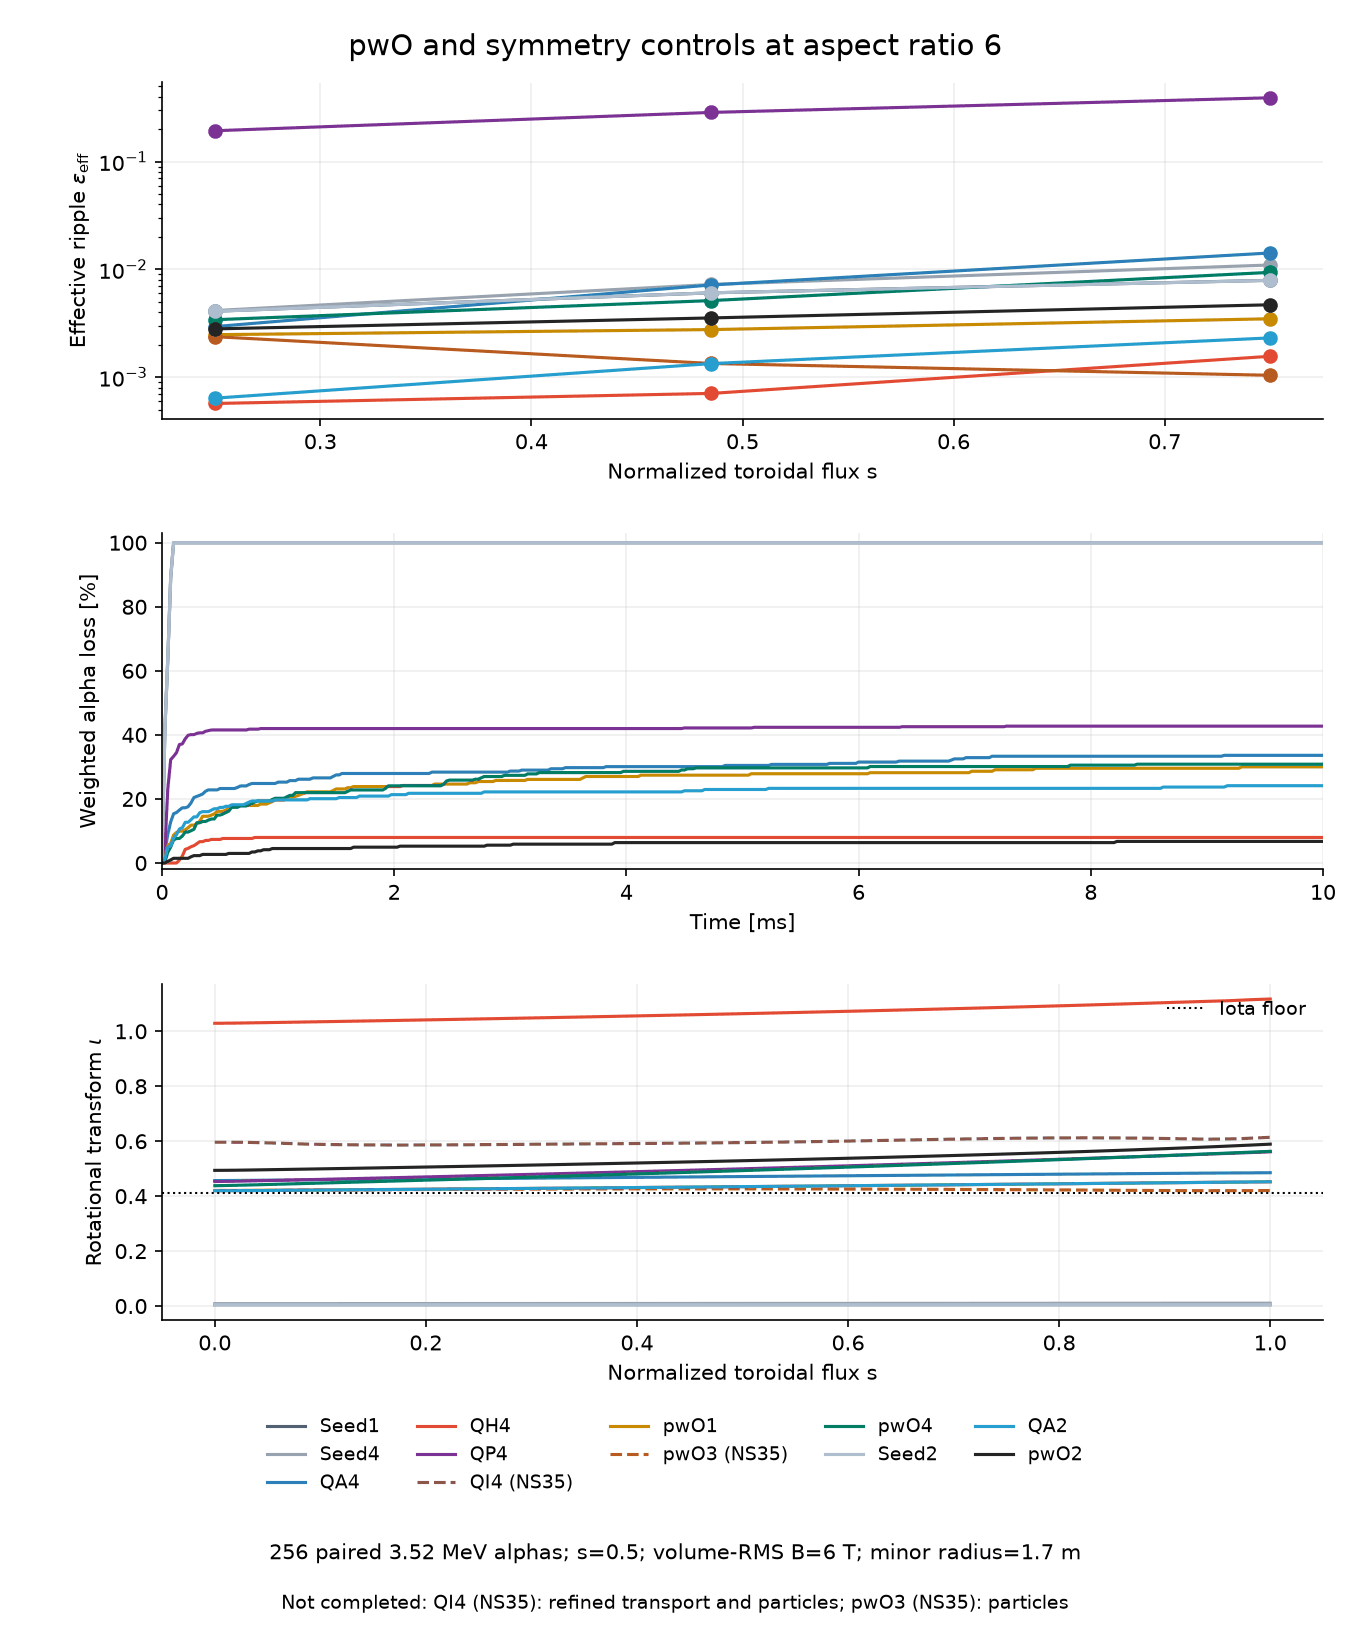
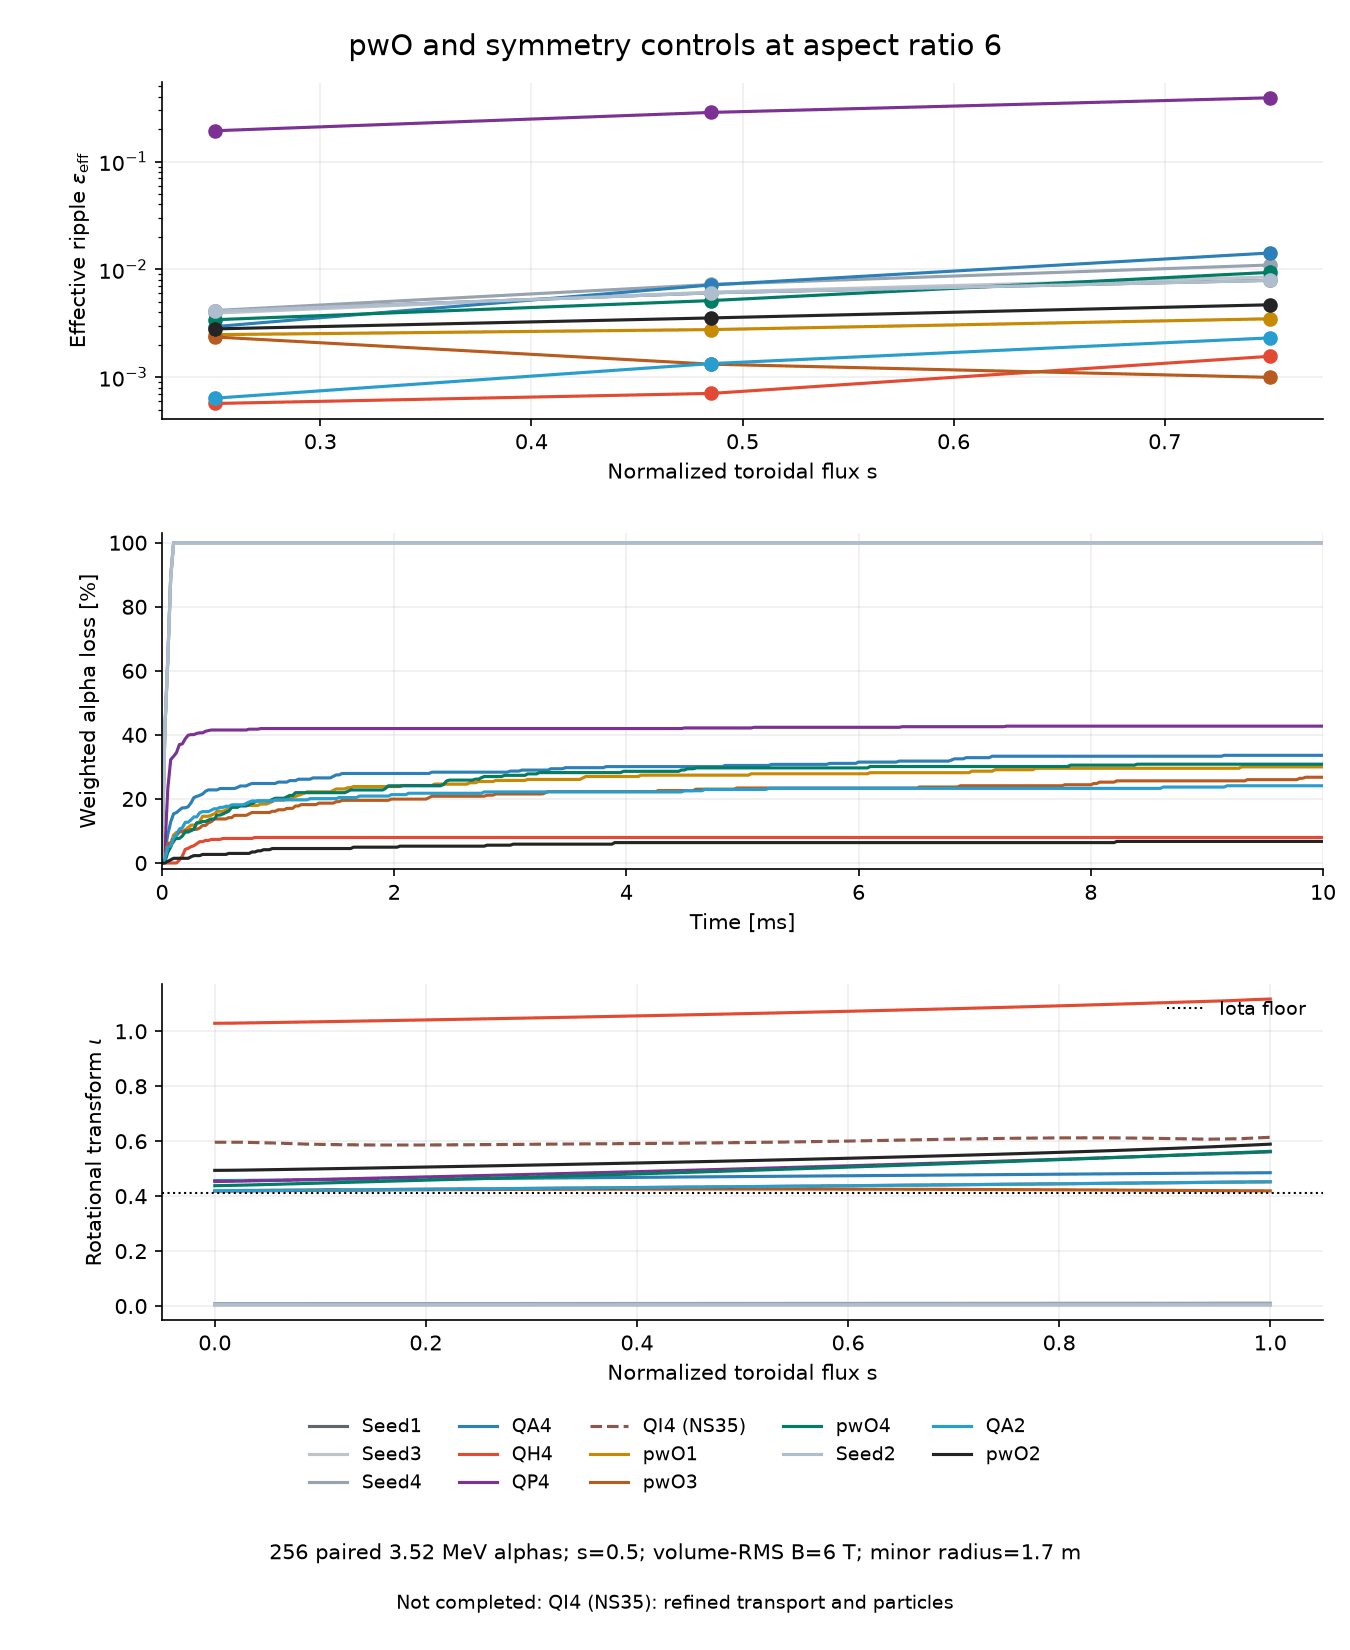
Document validated NFP1 and NFP3 runs and matched alpha comparisons

diff --git a/docs/_static/figures/sources/make_low_transport_figure.py b/docs/_static/figures/sources/make_low_transport_figure.py
@@ -189,11 +189,11 @@ def comparisons(root):
                           refined_equilibrium=dict(full_signed_iota=iota), coarse=True)
     fig, axes = plt.subplots(3, 1, figsize=(9, 11), dpi=150)
     fig.subplots_adjust(left=.12, right=.98, top=.95, bottom=.20, hspace=.34)
-    axes[2].set_prop_cycle(color=["#566a79", "#99a3af", "#2c7fb8", "#e34a33",
+    axes[2].set_prop_cycle(color=["#566a79", "#bfc4c9", "#99a3af", "#2c7fb8", "#e34a33",
                                    "#7b3294", "#8c564b", "#c78a00", "#b85b20", "#007d63",
                                    "#afbecf", "#269fd0", "#242424"])
     handles, labels, missing = [], [], []
-    for name, label in (("seed1", "Seed1"), ("seed4", "Seed4"), ("QA", "QA4"), ("QH", "QH4"),
+    for name, label in (("seed1", "Seed1"), ("seed3", "Seed3"), ("seed4", "Seed4"), ("QA", "QA4"), ("QH", "QH4"),
             ("QP", "QP4"), ("QI", "QI4"), ("pwo1", "pwO1"), ("pwo3", "pwO3"), ("mapped4", "pwO4"),
             ("seed2", "Seed2"), ("QA_nfp2", "QA2"), ("mapped2", "pwO2")):
         row = data.get(name, {})

diff --git a/docs/reference/optimization.rst b/docs/reference/optimization.rst
@@ -658,14 +658,16 @@ Install ``vmex[neoclassical]`` and run the vacuum example::
 The file-level settings select the input, output directory, resolution and
 iteration budget. The default sets ``NFP=2`` and edits ``input.minimal_seed_nfp4`` in memory:
 major radius 1 m, minor radius 1/6 m, and a helical perturbation of 5% of the
-minor radius. ``NFP`` changes the field-period count without changing the seed shape.
+minor radius. For NFP1 the near-circle seed retains a physical n=2 harmonic.
+NFP1 and NFP3 use a QA precursor, followed by five pwO steps and
+NEO-constrained backtracking. NFP2 and NFP4 use the direct pwO mode ladder.
 Boundary modes 1 then 2 share NS35, M5/N5, force tolerance 1e-12 and a
 2000-iteration solver cap. Bounded least squares uses implicit residual
 Jacobians, optimizer ``ftol=1e-3`` and 15 iterations per stage.
 
 The pwO residual is combined with aspect ratio 6, a signed-iota
 floor of 0.42 and mirror ratio below 0.2. The mirror penalty targets 0.18;
-no symmetry or magnetic-well penalty is used. Live B00 normalization replaces
+the final pwO stage has no symmetry or magnetic-well penalty. Live B00 normalization replaces
 reference-field arrays, and an automatic initial cost scale sets the term weight.
 Three equally spaced requests are snapped to actual VMEC half-mesh radii.
 The fixed map and cut are described in
@@ -690,7 +692,11 @@ It reduces pwO variance by 11.9% and mean Q by 65.6% relative to the
 near-circle seed, at A=6.007 and minimum signed iota=0.4198. This
 independent NS103/M7/N7 check finds a 67.0% mean-Q reduction and
 30.0% weighted alpha loss, against 100% in its near-circle seed. The
-construction is not yet automated by changing ``NFP`` in the vacuum example.
+vacuum driver automates this construction when ``NFP=1``; its NFP3
+path uses the same step control after a native three-period QA precursor.
+The NFP3 refined mean Q falls 87.2%, with paired losses down from 100% to
+26.8%. Fresh public runs changing only NFP completed in 562 s (NFP1) and
+516 s (NFP3), each below 3 GiB on eight logical CPUs on office.
 
 Continue the saved vacuum shape to finite pressure with::
 

diff --git a/README.md b/README.md
@@ -279,8 +279,8 @@ maximum-`J` variants, with scalar-adjoint, SciPy, JAXopt and Optax drivers.
 
 ![Two-period boundary colored by magnetic-field strength, Boozer contours, transport and alpha losses](docs/_static/figures/readme_low_transport.webp)
 
-**pwO optimization** shapes the magnetic wells without imposing quasisymmetry.
-It minimizes the variation of |B| along contours of a squeezed omnigenous mapping,
+**pwO optimization** minimizes the variation of |B| along contours of a squeezed
+omnigenous mapping,
 following the [PO–pwO construction](https://arxiv.org/abs/2603.12139v1):
 
 $$
@@ -300,13 +300,13 @@ volume-RMS field of 6 T and minor radius 1.7 m. Its β≈0.5% continuation lower
 |---|---:|---:|---|
 | 1 | 6.007 | 0.421 | Refined mean Q −67.0%; QA precursor |
 | 2 | 6.003 | 0.494 | Refined mean Q −52.6% |
-| 3 | 6.006 | 0.420 | Coarse mean Q −86.8%; QA precursor |
+| 3 | 6.006 | 0.418 | Refined mean Q −87.2%; QA precursor |
 | 4 | 6.001 | 0.438 | Refined mean Q −27.5% |
 
 The one-period construction uses a QA precursor, physical toroidal harmonics through n=4,
 and a NEO-screened pwO step. Its paired alpha losses fall from 100% to 30.0%.
-The direct mode-2 start still fails. A similar QA-to-pwO step gives the
-three-period result; its refinement and particle checks are pending.
+The three-period case follows the same QA-to-pwO path and lowers paired losses
+from 100% to 26.8%.
 
 ![Effective ripple, alpha losses and iota profiles compared with QA, QH, QP and the initial seeds; unfinished checks are marked](docs/_static/figures/readme_low_transport_comparison.webp)
 
